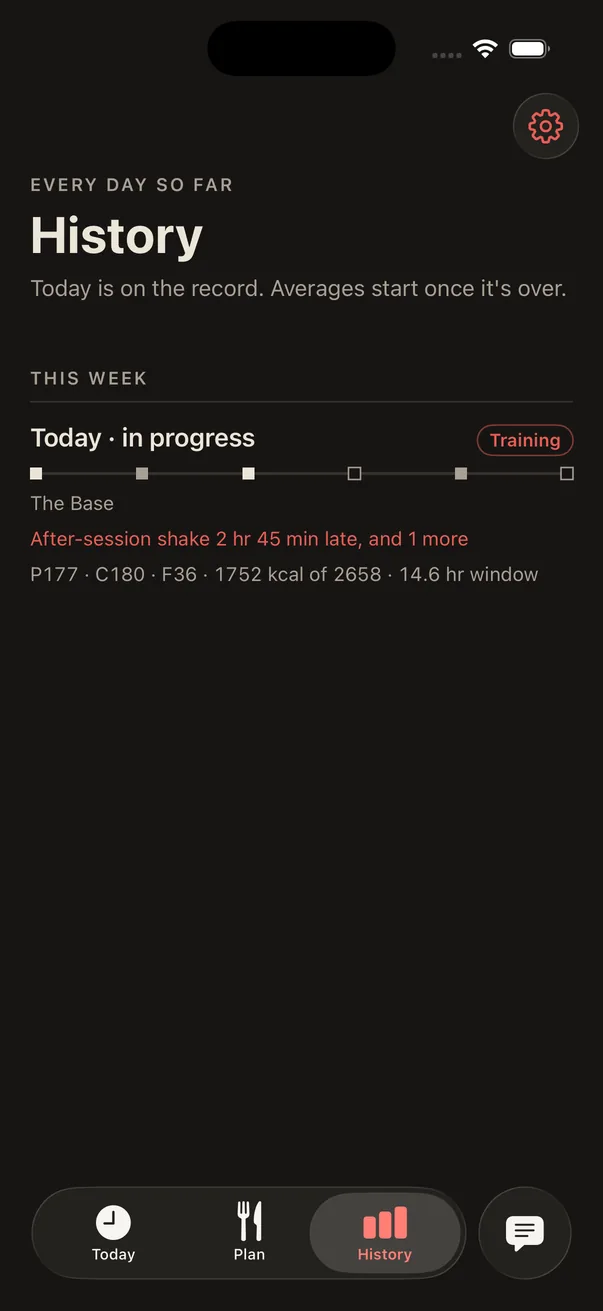
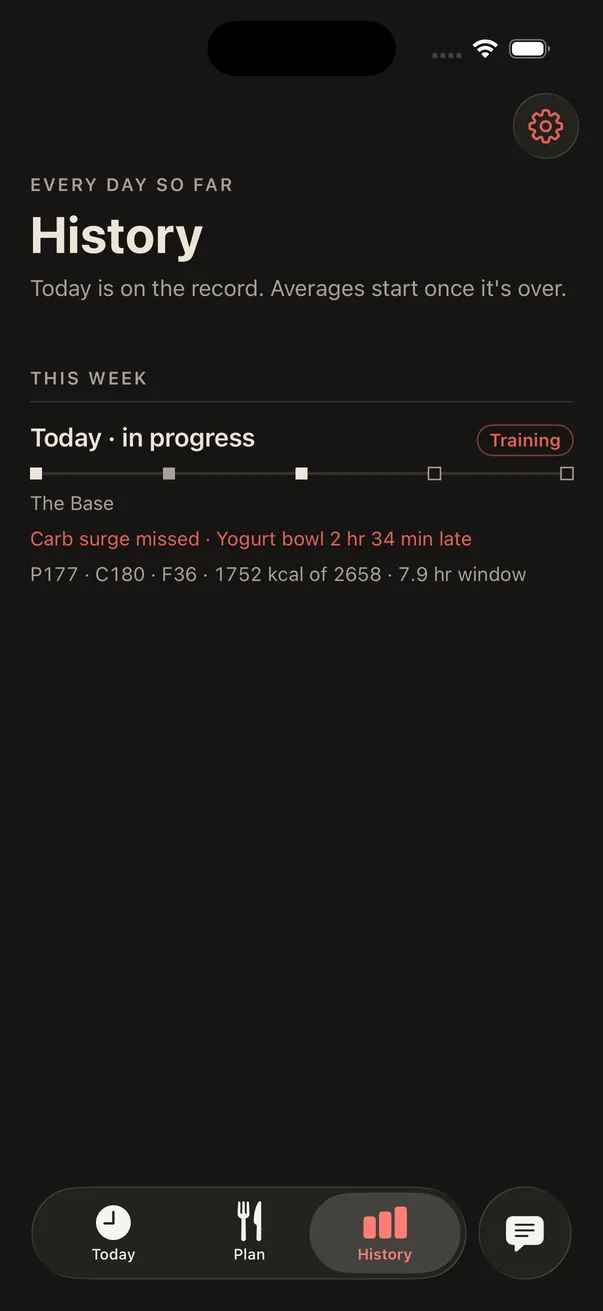
MealStack demo: a one-minute tour of the four pillars (14 screens, down from 30); History reshot with fuel left out of lateness; rest-day menu added
Claude-Session: https://claude.ai/code/session_01FC3zwGghx2Qna2XvLqNx1W

diff --git a/public/demos/mealstack.html b/public/demos/mealstack.html
@@ -15,6 +15,7 @@
    (dark appearance), shot with the build's demo clock set for each step.
    The Simulator's own clock is painted out of every image
    (scripts/build_mealstack_demo_images.py) and drawn here instead.
+   The tour follows the four pillars from the Log "Fueling is training".
    The guide panel is Iron Log: charcoal, mono, oxblood.
    ═══════════════════════════════════════════════════════════════════════ */
 :root {
@@ -41,21 +42,23 @@ button { font: inherit; }
 .clock { position: absolute; left: 36px; top: 19px; width: 78px; height: 26px; display: flex; align-items: center; justify-content: center;
   font-family: var(--sys); font-size: 17px; font-weight: 600; letter-spacing: -0.2px; color: #fff; pointer-events: none; z-index: 2; }
 
-/* Hotspots: a pulsing ring on the thing to tap. Invisible tab targets sit on the tab bar. */
+/* Hotspots: a pulsing ring on the thing to tap. */
 @keyframes mb-pulse {
   0%, 100% { box-shadow: 0 0 0 2px #fffaeb, 0 0 0 5px #a8211a, 0 0 18px 4px rgba(168,33,26,0.55); }
   50%      { box-shadow: 0 0 0 2px #fffaeb, 0 0 0 7px #a8211a, 0 0 28px 8px rgba(168,33,26,0.70); }
 }
 .hot { position: absolute; border-radius: 12px; cursor: pointer; z-index: 3; background: none; border: none; padding: 0; animation: mb-pulse 1.6s ease-in-out infinite; }
 .hot:focus-visible { outline: 2px solid #fffaeb; outline-offset: 4px; }
-.tab { position: absolute; top: 795px; height: 53px; z-index: 3; cursor: pointer; background: none; border: none; padding: 0; border-radius: 26px; }
-.tab:hover { background: rgba(255,250,235,0.06); }
 
 /* ── Guide panel ── */
 .g-parts { display: flex; flex-wrap: wrap; gap: 6px; margin-bottom: 22px; }
 .g-part { background: none; border: 1px solid #3a342d; color: var(--chalk-dim); font-family: var(--mono); font-size: 10px; letter-spacing: 0.12em; text-transform: uppercase; padding: 5px 9px; cursor: pointer; }
 .g-part:hover { border-color: var(--blood); color: var(--chalk); }
 .g-part.on { border-color: var(--blood); color: #fffaeb; background: rgba(168,33,26,0.18); }
+.g-n { color: var(--blood); margin-right: 2px; }
+.g-part.on .g-n { color: #fffaeb; }
+.g-rule { font-family: 'Merriweather', Georgia, serif; font-style: italic; font-size: 14px; line-height: 1.55; color: var(--chalk-dim); margin: 10px 0 0; max-width: 48ch; padding-left: 12px; border-left: 2px solid var(--blood); }
+.g-rule:empty { display: none; }
 .g-counter { font-family: var(--mono); font-size: 10px; letter-spacing: 0.22em; text-transform: uppercase; color: var(--blood); }
 .g-title { font-family: var(--mono); font-size: 13px; font-weight: 600; letter-spacing: 0.12em; text-transform: uppercase; color: #fffaeb; margin: 10px 0 0; }
 .g-desc { font-family: 'Merriweather', Georgia, serif; font-size: 15px; line-height: 1.6; color: #c8bea7; margin: 12px 0 0; max-width: 48ch; }
@@ -77,6 +80,7 @@ button { font: inherit; }
   .g-parts { margin-bottom: 12px; padding-right: 96px; }
   .g-desc { font-size: 13px; line-height: 1.5; margin-top: 8px; }
   .g-title { margin-top: 6px; }
+  .g-rule { font-size: 12px; margin-top: 6px; }
   .g-nav { margin-top: 12px; }
   .g-fine { display: none; }
 }
@@ -104,6 +108,7 @@ button { font: inherit; }
   <div class="guide" id="guide">
     <div class="g-parts" id="g-parts" aria-label="Parts of the tour"></div>
     <div class="g-counter" id="g-counter"></div>
+    <p class="g-rule" id="g-rule"></p>
     <p class="g-title" id="g-title"></p>
     <p class="g-desc" id="g-desc"></p>
     <p class="g-do" id="g-do"></p>
@@ -111,7 +116,7 @@ button { font: inherit; }
       <button class="g-btn" id="g-prev">← Prev</button>
       <button class="g-btn primary" id="g-next">Next →</button>
     </div>
-    <p class="g-fine">Real screens from a Debug build of MealStack 0.9.1 in the iPhone Simulator, with the build's demo clock set for each step. Coach can't answer from the Simulator, so the tour stops at its door. Tap the ringed spot, use the buttons, or ← → on the keyboard. The tab bar works.</p>
+    <p class="g-fine">Real screens from a Debug build of MealStack 0.9.1 in the iPhone Simulator, with the build’s demo clock set for each step. Four pillars, a few screens each. Tap the ringed spot, use the buttons, or ← → on the keyboard.</p>
   </div>
 </div>
 
@@ -121,112 +126,67 @@ button { font: inherit; }
 
   var IMG = 'mealstack/';
   // Screen boxes are in points on the 402 × 874 screen: [left, top, right, bottom].
-  var LOG_BAR = [22, 780, 382, 830];
-  var TABS = { today: [25, 125], plan: [125, 212], history: [212, 300], coach: [318, 384] };
+  var HISTORY_TAB = [212, 795, 300, 848];
+
+  // The tour is the four pillars from the Log "Fueling is training", two to four screens each.
+  var PILLARS = {
+    protein: { n: '01', name: 'Protein', label: 'Protect the protein',
+      rule: 'Protein has no storage tank. Stack it across the day, and never send it out alone.' },
+    session: { n: '02', name: 'Session', label: 'Protect the session',
+      rule: 'Your pre-workout meal is equipment, not a snack. It anchors backward from when you train and holds its time.' },
+    day:     { n: '03', name: 'Day', label: 'Protect the day',
+      rule: 'Flights, time zones, a session that moved to 8pm. Change the day, swap the plate, keep going.' },
+    record:  { n: '04', name: 'Record', label: 'Protect the record',
+      rule: 'Log when you eat, not when it was due.' }
+  };
 
   var steps = [
-    // ── Set up ──
-    { id: 'setup', part: 'Set up', img: '00-welcome', clock: '6:40', title: 'Four ways in', tabs: false,
-      hot: [20, 380, 382, 490], doText: 'Tap “Just the times”',
-      desc: 'First open. Give it your times and fill the plates later, let Coach build the plan in a short chat, build it by hand, or bring a plan file a coach or Claude wrote. No account either way.' },
-    { part: 'Set up', img: '01-quickstart', clock: '6:40', title: 'Two answers', tabs: false,
-      hot: LOG_BAR, doText: 'Tap “Build my plan”',
-      desc: 'When you eat first and when you train. The morning chains forward from the first meal; the carb surge, the session and everything after it are pinned to the session. The app asks to send alerts after this, not before.' },
-    { id: 'today', part: 'Set up', img: '04-today-morning', clock: '6:40', title: 'Today',
-      hot: [262, 118, 362, 146], doText: 'Tap the stack menu, “The Base”',
-      desc: 'The next meal is the biggest thing on the screen, counting down. Across the top are three menus: the day type, the session, and the stack. A stack is a named set of meals for a training day and a rest day.' },
-    { part: 'Set up', img: '03-stack-menu', clock: '6:40', title: 'One stack a week', tabs: false,
-      hot: [118, 194, 300, 230], doText: 'Tap “The Base”',
-      desc: 'Your rotation runs one stack per calendar week and repeats. Kept stacks wait on the shelf. Picking one runs it for the rest of this week, and what you’ve already eaten stays logged.' },
-    { part: 'Set up', img: '02-stack-switched', clock: '6:40', title: 'One line, with Undo',
-      desc: 'Every change says what it did in one line at the bottom, with Undo. There are no “are you sure?” dialogs anywhere in the app.' },
-    { part: 'Set up', img: '05-today-list', clock: '6:41', title: 'The day, laid out', tabs: false,
-      desc: 'The thin red line is now; the white line is the session. Meals above it follow whatever you ate last. The carb surge is pinned to the session. Fuel, like the scoop and the jug, is its own row and never counts as a meal.' },
+    { part: 'intro', img: '00-welcome', clock: '6:40', title: 'Fueling is training.',
+      desc: 'A meal timing tracker for people who train. It rests on four pillars: protect the protein, the session, the day and the record. This tour shows each one in a few real screens. About a minute.' },
 
-    // ── Log ──
-    { id: 'log', part: 'Log a meal', img: '06-log-sheet', clock: '7:06', title: 'Log when you ate', tabs: false,
-      hot: LOG_BAR, doText: 'Tap “Log at 7:06 AM”',
-      desc: 'Tap Log on the next meal. The sheet opens on now, with the common answers one tap away, and shows what the rest of the day does before you commit: the yogurt and lunch slide six minutes, the carb surge holds.' },
-    { part: 'Log a meal', img: '07-logged-undo', clock: '7:06', title: 'On the record',
-      hot: [110, 118, 242, 146], doText: 'Tap “Session 6:00 PM”',
-      desc: 'Breakfast is logged at 7:06. A plate fills in the bar, “Since last” starts counting, and the line at the bottom can still take it back.' },
-    { part: 'Log a meal', img: '08-session-menu', clock: '7:06', title: 'Training moved', tabs: false,
-      hot: [60, 308, 300, 354], doText: 'Tap “30 min later”',
-      desc: 'Mark the session done, or move it: an hour or thirty minutes either way, or pick a time. Each step shows where it lands, and a move that would leave today isn’t offered.' },
-    { part: 'Log a meal', img: '09-session-moved', clock: '7:07', title: 'What’s pinned moves with it',
-      desc: 'Session 6:30 PM. The carb surge, the scoop and the jug move with it; the morning doesn’t. The line says exactly what moved.' },
-
-    // ── A late morning ──
-    { id: 'late', part: 'A late morning', img: '10-late-morning', clock: '12:40', title: 'Two and a half hours late',
-      hot: [20, 448, 382, 498], doText: 'Tap Log',
-      desc: 'It’s 12:40. A meeting ran long and the yogurt never happened. Only the small label turns red: overdue, 2 hr 34 min.' },
-    { part: 'A late morning', img: '11-late-log', clock: '12:40', title: 'The session is protected', tabs: false,
-      hot: LOG_BAR, doText: 'Tap “Log at 12:40 PM”',
-      desc: 'Three hours after 12:40 would put lunch at 3:40, too close to the carb surge. So the gap tightens and lunch moves to 3:00. The carb surge holds at 5:00.' },
-    { part: 'A late morning', img: '12-late-logged', clock: '12:40', title: 'Running late, in words',
-      hot: [150, 508, 252, 542], doText: 'Tap “Not yet”',
-      desc: '“Running late. The gaps tightened so the carb surge still lands before your session.” Lunch is next, at 3:00.' },
-    { part: 'A late morning', img: '13-not-yet-menu', clock: '12:40', title: 'Not yet', tabs: false,
-      hot: [78, 438, 324, 492], doText: 'Tap “Swap for another meal”',
-      desc: 'Push the meal back 15, 30 or 45 minutes, skip it, or swap it for another meal.' },
-    { part: 'A late morning', img: '14-swap-shelf', clock: '12:40', title: 'Swap from your shelf', tabs: false,
-      hot: [20, 82, 94, 118], doText: 'Tap Cancel',
-      desc: 'Your Meals shelf opens for this meal. Pick one for today only, for this stack, or for every stack. Lunch is out with a client instead? Cancel, and ask Coach.' },
-
-    // ── Coach ──
-    { id: 'coach', part: 'Coach', img: '12-late-logged', clock: '12:41', title: 'Eating out',
-      hot: [66, 554, 334, 582], doText: 'Tap “Eating out? Send Coach the menu”',
-      desc: 'Under the next meal: “Eating out? Send Coach the menu.” It opens Coach with this meal in focus.' },
-    { part: 'Coach', img: '15-coach-terms', clock: '12:41', title: 'Coach is an AI',
-      hot: [22, 512, 382, 560], doText: 'Tap “I agree”',
-      desc: 'The first time, three plain lines: not medical advice, menu numbers are estimates, and nothing changes until you tap. It says what gets sent, and asks you to confirm you’re 18 or older.' },
-    { part: 'Coach', img: '16-coach-eating-out', clock: '12:41', title: 'Send the menu',
-      hot: [240, 698, 268, 724], doText: 'Tap × on the pill',
-      desc: 'The pill says what Coach is working on: eating out, in place of the Paprika chicken box. Snap the menu or paste a link. Coach picks what fits this meal’s numbers, for today only, and nothing lands until you tap its card.' },
-    { id: 'coach-home', part: 'Coach', img: '17-coach-starters', clock: '12:41', title: 'Every conversation starts here',
-      hot: [TABS.today[0], 795, TABS.today[1], 848], doText: 'Tap Today',
-      desc: 'Starters head every new conversation, eating out first: fill the empty plates, work out your macros, ideas for the next meal, or say what’s in the fridge.' },
-
-    // ── The evening ──
-    { id: 'evening', part: 'The evening', img: '18-session-started-preview', clock: '7:20', title: 'The session started without it', tabs: false,
-      hot: LOG_BAR, doText: 'Tap “Log at 7:20 PM”',
-      desc: 'Later: it’s 7:20 PM and lunch finally happened. The carb surge and the scoop were due before the 6:30 session, which has started. They don’t slide past it; they’re marked “session started”. Only what comes after the session moves.' },
-    { part: 'The evening', img: '19-evening-list', clock: '7:20', title: 'It says why', tabs: false,
-      desc: 'Under the carb surge and the scoop: “Session started without it”, with Skip right there. If you did eat it, tap the box.' },
-    { part: 'The evening', img: '19b-session-done', clock: '7:20', title: 'Session done',
-      desc: 'Nothing to log at the session? “Session done” in the session menu marks the day trained, at the session’s time. The menu now reads “Trained 6:30 PM”, and the line can take it back.' },
-    { part: 'The evening', img: '19c-wont-fit', clock: '9:45', title: 'Nothing lands on tomorrow', tabs: false,
-      desc: '9:45 PM. The shake went in late, and dinner can’t fit before your 9:30 “Last meal by”. It says so and waits to be logged or skipped. No 11:45 PM dinner, and no alert for it.' },
-    { part: 'The evening', img: '19d-nothing-fits', clock: '9:45', title: 'Nothing else fits today',
-      hot: [TABS.history[0], 795, TABS.history[1], 848], doText: 'Tap History',
-      desc: 'When only what can’t happen is left, Today says so and offers to skip the rest in one tap, and one Undo.' },
-    { id: 'history', part: 'The evening', img: '26-history', clock: '9:45', title: 'History keeps the record',
-      hot: [TABS.plan[0], 795, TABS.plan[1], 848], doText: 'Tap Plan',
-      desc: 'Today is on the record as a day in progress, with its stack and what happened. Averages wait until the day is over.' },
-
-    // ── The Plan tab ──
-    { id: 'plan', part: 'The Plan tab', img: '20-plan-stacks', clock: '6:42', title: 'Stacks, meals, ingredients',
-      hot: [18, 388, 384, 438], doText: 'Tap The Base',
-      desc: 'Three shelves. Ingredients make meals, and meals make stacks. The rotation runs one stack each week; kept stacks wait until you add them.' },
-    { part: 'The Plan tab', img: '21-stack-detail', clock: '6:42', title: 'A stack',
+    // ── 01 Protein ──
+    { part: 'protein', img: '04-today-morning', clock: '6:40', title: 'The next meal is the screen',
+      desc: 'The day is a stack of meals, spaced out. The next one is the biggest thing on Today, counting down, with what’s on the plate and its protein. An alert finds you when it’s due.' },
+    { part: 'protein', img: '21-stack-detail', clock: '6:42', title: 'Planned plate by plate',
       hot: [18, 600, 384, 688], doText: 'Tap Paprika chicken box',
-      desc: 'A training day and a rest day of meals, with the day’s planned totals. Open a meal to change it.' },
-    { part: 'The Plan tab', img: '22-meal-editor', clock: '6:42', title: 'A meal is its ingredients', tabs: false,
-      desc: 'Weighed ingredients with their macros. The meal’s totals and the whole day’s update as you edit. The same screen makes fuel.' },
-    { part: 'The Plan tab', img: '23-meal-scope', clock: '6:42', title: 'Say how far it goes', tabs: false,
-      desc: 'Today only, or every training day of The Base from now on. A meal already logged keeps what it was logged with.' },
-    { part: 'The Plan tab', img: '24-plan-meals', clock: '6:42', title: 'The Meals shelf',
-      hot: [262, 178, 382, 208], doText: 'Tap Ingredients',
-      desc: 'Every meal you keep, searchable by name or by what’s in it. Built-in examples to start from, or bring your own with the MealStack plan skill.' },
-    { part: 'The Plan tab', img: '25-plan-ingredients', clock: '6:42', title: 'That’s MealStack',
-      desc: 'Per-unit figures for the built-in ingredients, and yours from the label. Timing that bends around your day and protects your session. It’s in private beta on iPhone; the form under this demo gets you a build.' }
+      desc: 'A stack is a training day and a rest day of meals. The Base puts 224 g of protein across the training day, and every plate shows its share.' },
+    { part: 'protein', img: '22-meal-editor', clock: '6:42', title: 'Weighed, not guessed',
+      desc: 'A meal is its ingredients, by weight, with their macros. The meal’s totals and the day’s update as you edit. Fuel, like the shake after the session, counts its protein toward the day but never counts as a meal.' },
+
+    // ── 02 Session ──
+    { part: 'session', img: '08-session-menu', clock: '7:06', title: 'The session is the anchor',
+      hot: [60, 308, 300, 354], doText: 'Tap “30 min later”',
+      desc: 'Say when you train and the day is built around it: the carb surge, the pre-workout scoop and the jug are pinned to the session. Training moved? Move it here, and each choice shows where it lands.' },
+    { part: 'session', img: '09-session-moved', clock: '7:07', title: 'What’s pinned moves with it',
+      desc: 'Session 6:30 PM. The carb surge, the scoop and the jug moved with it; the morning didn’t. One line says what moved, with Undo. No “are you sure?” dialogs.' },
+    { part: 'session', img: '11-late-log', clock: '12:40', title: 'The carb surge holds',
+      desc: 'It’s 12:40 and the 10:06 yogurt is only happening now. The rest of the day slides, except where it would crowd the session: lunch tightens to 3:00 so the carb surge still lands at 5:00, before you train.' },
+
+    // ── 03 Day ──
+    { part: 'day', img: '13-not-yet-menu', clock: '12:40', title: 'Can’t eat it as planned?',
+      hot: [78, 438, 324, 492], doText: 'Tap “Swap for another meal”',
+      desc: '“Not yet” under every meal: push it back 15, 30 or 45 minutes, skip it, or swap it. Prepped lunch sitting in a fridge in another city? Swap.' },
+    { part: 'day', img: '14-swap-shelf', clock: '12:40', title: 'Swap from your shelf',
+      desc: 'Your Meals shelf opens for this plate. Pick one for today only, for this stack, or for every stack. The day around it doesn’t have to be rebuilt.' },
+    { part: 'day', img: '16-coach-eating-out', clock: '12:41', title: 'Eating out? Send Coach the menu',
+      desc: 'Snap the menu or paste a link. Coach picks what fits this meal’s numbers, for today only. Coach is an AI and can be wrong, so nothing changes until you tap its card.' },
+    { part: 'day', img: '27-daytype-menu', clock: '9:45', title: 'Rest day, today only',
+      desc: 'The day went sideways? Flip it to rest from the top of Today; tomorrow follows your training days. Next to it, the stack menu changes the week’s meals in one tap.' },
+
+    // ── 04 Record ──
+    { part: 'record', img: '06-log-sheet', clock: '7:06', title: 'Log when you ate',
+      desc: 'The sheet opens on now, with 15 min ago, 1 hr ago and the planned time a tap away, and shows what the rest of the day will do before you commit.' },
+    { part: 'record', img: '19d-nothing-fits', clock: '9:45', title: 'No pretending',
+      hot: HISTORY_TAB, doText: 'Tap History',
+      desc: '9:45 PM, past the 9:30 last meal. What can’t happen says so: log what you did eat, or skip the rest in one tap. Nothing gets pushed onto tomorrow, and there are no streaks to protect.' },
+    { part: 'record', img: '26-history', clock: '9:45', title: 'The day as it happened',
+      desc: 'History keeps the real day: carb surge missed, the yogurt 2 hr 34 min late, 177 g of protein. Tomorrow gets tuned on that, not on the plan. That’s MealStack. It’s in private beta on iPhone; the form under this demo gets you a build.' }
   ];
 
   var $ = function (id) { return document.getElementById(id); };
-  var byId = {};
-  steps.forEach(function (s, i) { if (s.id) byId[s.id] = i; });
-  var parts = [];
-  steps.forEach(function (s, i) { if (!parts.length || parts[parts.length - 1].name !== s.part) parts.push({ name: s.part, first: i }); });
+  var order = ['protein', 'session', 'day', 'record'];
+  var firstOf = {};
+  steps.forEach(function (s, i) { if (firstOf[s.part] === undefined) firstOf[s.part] = i; });
 
   // Preload, so a tap swaps the screen at once.
   var cache = {};
@@ -249,54 +209,49 @@ button { font: inherit; }
   function renderTargets(s) {
     var t = $('targets');
     t.innerHTML = '';
-    if (s.hot) {
-      var h = document.createElement('button');
-      h.className = 'hot';
-      h.setAttribute('aria-label', s.doText || 'Continue');
-      box(h, s.hot);
-      h.addEventListener('click', next);
-      t.appendChild(h);
-    }
-    if (s.tabs === false) return;
-    [['today', 'Today', 'today'], ['plan', 'Plan', 'plan'], ['history', 'History', 'history'], ['coach', 'Coach', 'coach-home']].forEach(function (d) {
-      var r = TABS[d[0]];
-      if (s.hot && s.hot[1] >= 790 && s.hot[0] === r[0]) return; // the ringed tab is already a target
-      var b = document.createElement('button');
-      b.className = 'tab';
-      b.style.left = r[0] + 'px'; b.style.width = (r[1] - r[0]) + 'px';
-      b.setAttribute('aria-label', 'Open ' + d[1]);
-      b.addEventListener('click', function () { goTo(byId[d[2]]); });
-      t.appendChild(b);
-    });
+    if (!s.hot) return;
+    var h = document.createElement('button');
+    h.className = 'hot';
+    h.setAttribute('aria-label', s.doText || 'Continue');
+    box(h, s.hot);
+    h.addEventListener('click', next);
+    t.appendChild(h);
   }
   function renderParts(s) {
     var wrap = $('g-parts');
     if (!wrap.childElementCount) {
-      parts.forEach(function (p) {
+      order.forEach(function (k) {
         var b = document.createElement('button');
-        b.className = 'g-part'; b.textContent = p.name;
-        b.addEventListener('click', function () { goTo(p.first); });
+        b.className = 'g-part';
+        b.innerHTML = '<span class="g-n">' + PILLARS[k].n + '</span> ' + PILLARS[k].name;
+        b.setAttribute('aria-label', 'Pillar ' + PILLARS[k].n + ': ' + PILLARS[k].label);
+        b.addEventListener('click', function () { goTo(firstOf[k]); });
         wrap.appendChild(b);
       });
     }
-    Array.prototype.forEach.call(wrap.children, function (b, i) { b.classList.toggle('on', parts[i].name === s.part); });
+    Array.prototype.forEach.call(wrap.children, function (b, i) { b.classList.toggle('on', order[i] === s.part); });
   }
   function goTo(n) {
     if (n < 0 || n >= steps.length) return;
     cur = n;
-    var s = steps[n];
+    var s = steps[n], p = PILLARS[s.part];
     swapImage(s.img, s.title);
     $('clock').textContent = s.clock;
     renderTargets(s);
     renderParts(s);
-    var p = parts.filter(function (x) { return x.name === s.part; })[0];
-    var inPart = steps.filter(function (x) { return x.part === s.part; }).length;
-    $('g-counter').textContent = s.part + ' · ' + (n - p.first + 1) + ' of ' + inPart;
+    if (p) {
+      var inPart = steps.filter(function (x) { return x.part === s.part; }).length;
+      $('g-counter').textContent = 'Pillar ' + p.n + ' · ' + p.label + ' · ' + (n - firstOf[s.part] + 1) + ' of ' + inPart;
+      $('g-rule').textContent = p.rule;
+    } else {
+      $('g-counter').textContent = 'MealStack · four pillars';
+      $('g-rule').textContent = '';
+    }
     $('g-title').textContent = s.title;
     $('g-desc').textContent = s.desc;
     $('g-do').textContent = s.doText || '';
     $('g-prev').disabled = n === 0;
-    $('g-next').textContent = n === steps.length - 1 ? 'Start over' : (s.hot ? 'Do it for me →' : 'Next →');
+    $('g-next').textContent = n === 0 ? 'Start →' : n === steps.length - 1 ? 'Start over' : (s.hot ? 'Do it for me →' : 'Next →');
     if (window.innerWidth <= 720) fit();
   }
   function next() { goTo(cur === steps.length - 1 ? 0 : cur + 1); }
